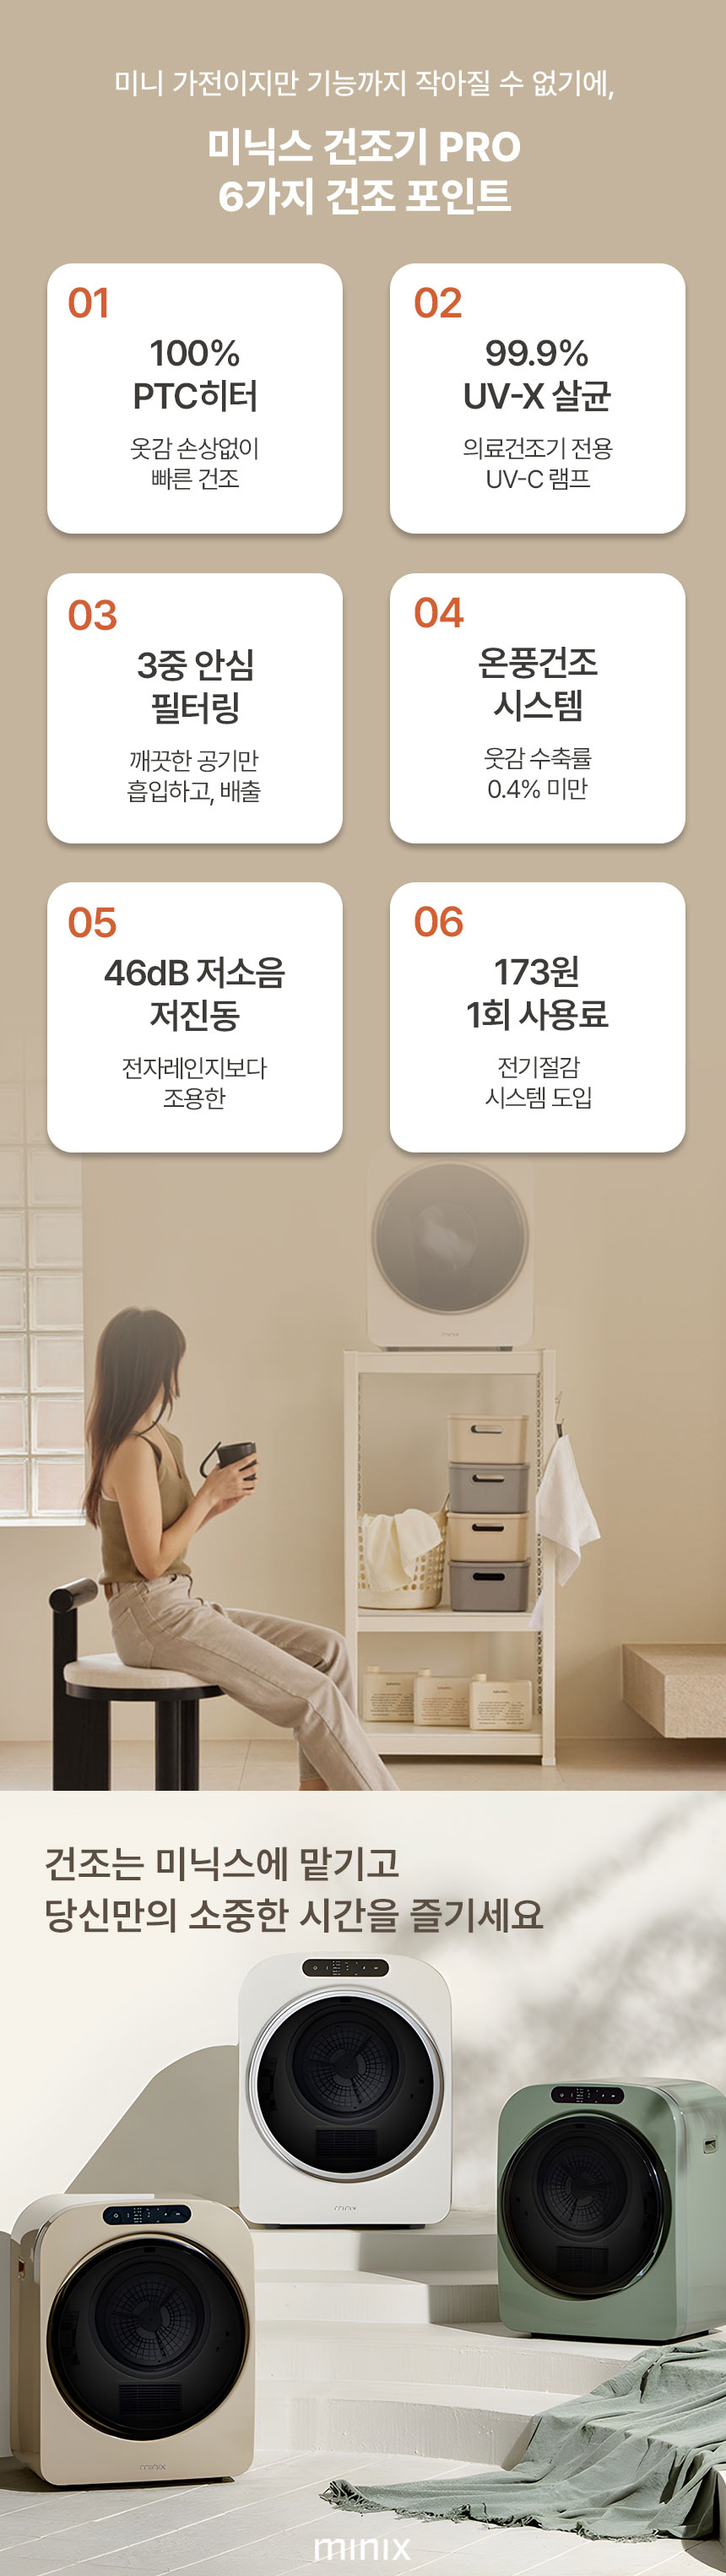
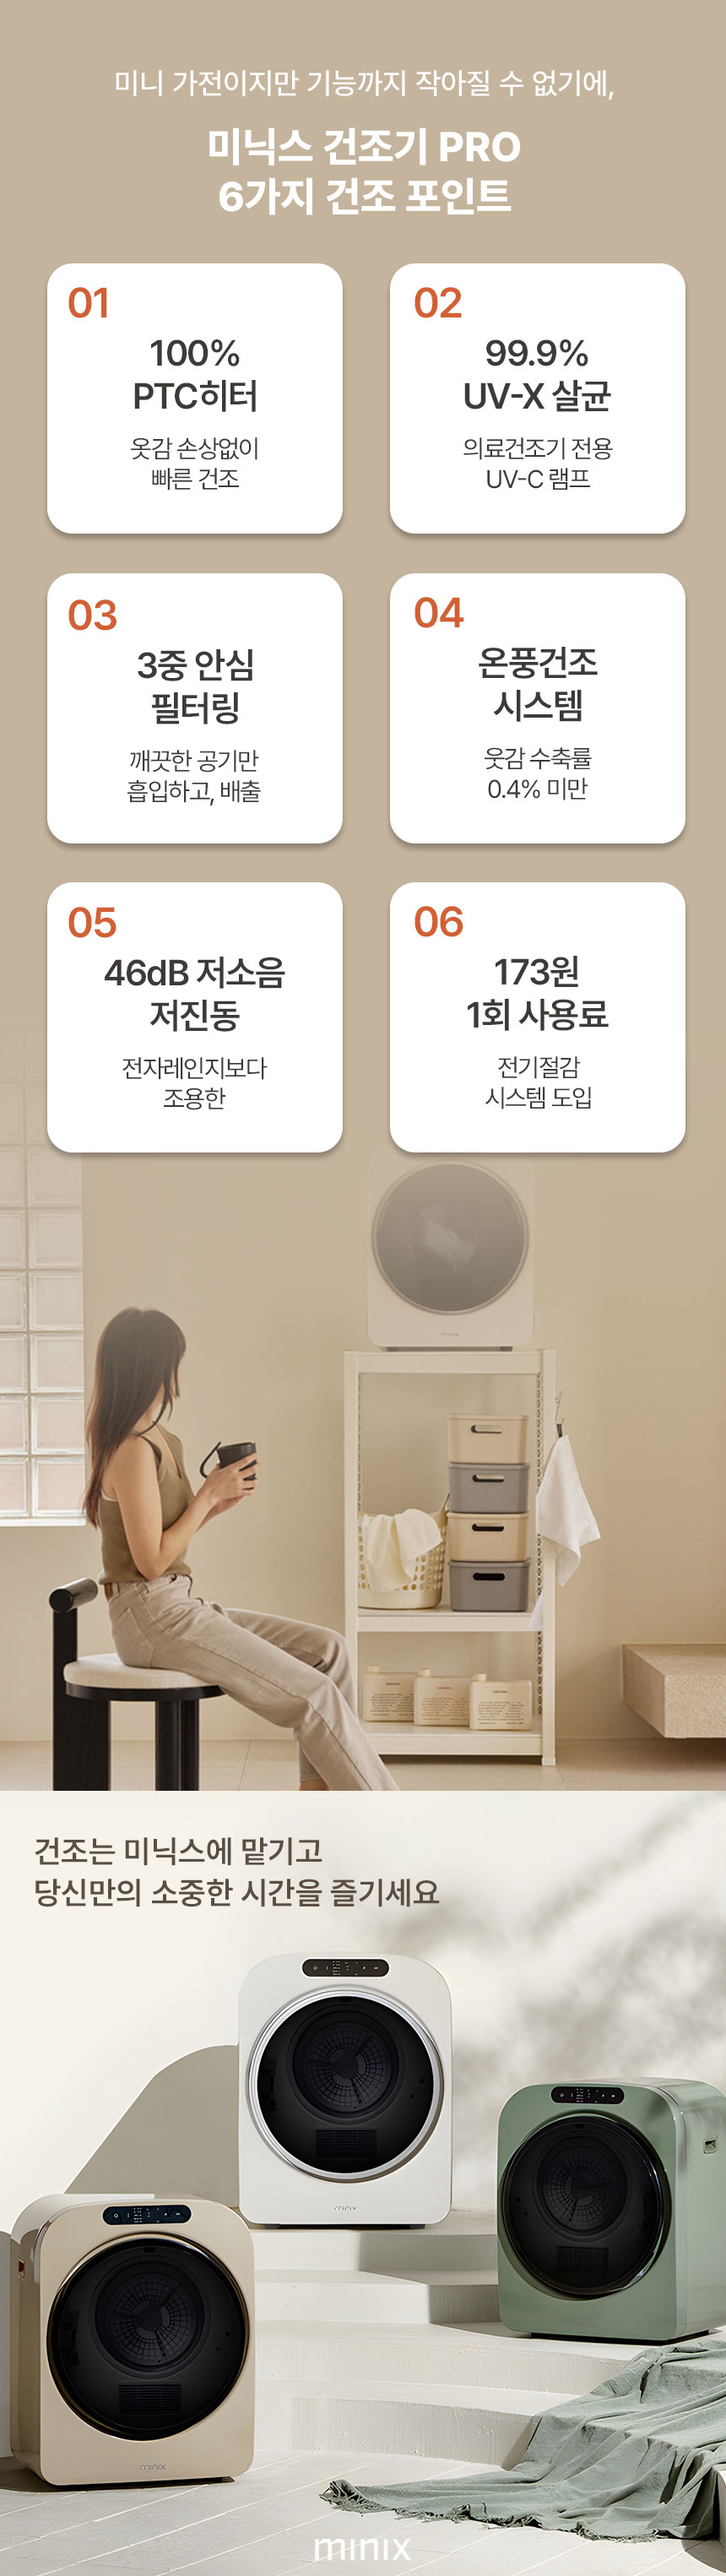
2

Changed region(s): [[0.0302, 0.7162, 0.7256, 0.7473]]

diff --git a/index.html b/index.html
@@ -8,6 +8,7 @@
       <link rel="icon" type="image/png" sizes="16x16" href="./images/파비콘.png">
 </head>
 <body>
+    <div id="wrap">
     <div id="kakao">
         <a href="#">
             <img src="./images/카카오광고.JPG" alt="kakao">
@@ -113,5 +114,6 @@
         </ul>
     </div><!-- footer_e -->
     </div><!-- footer_wrap_e -->
+     </div>
 </body>
 </html>

diff --git a/css/style.css b/css/style.css
@@ -13,6 +13,10 @@ body{
     font-family: 맑은고딕;
     font-size: 16px;
 }
+#wrap{
+   min-width: 1400px;
+    overflow: hidden;
+}
 #kakao{
     background-color: #000;
     height: 40px;
